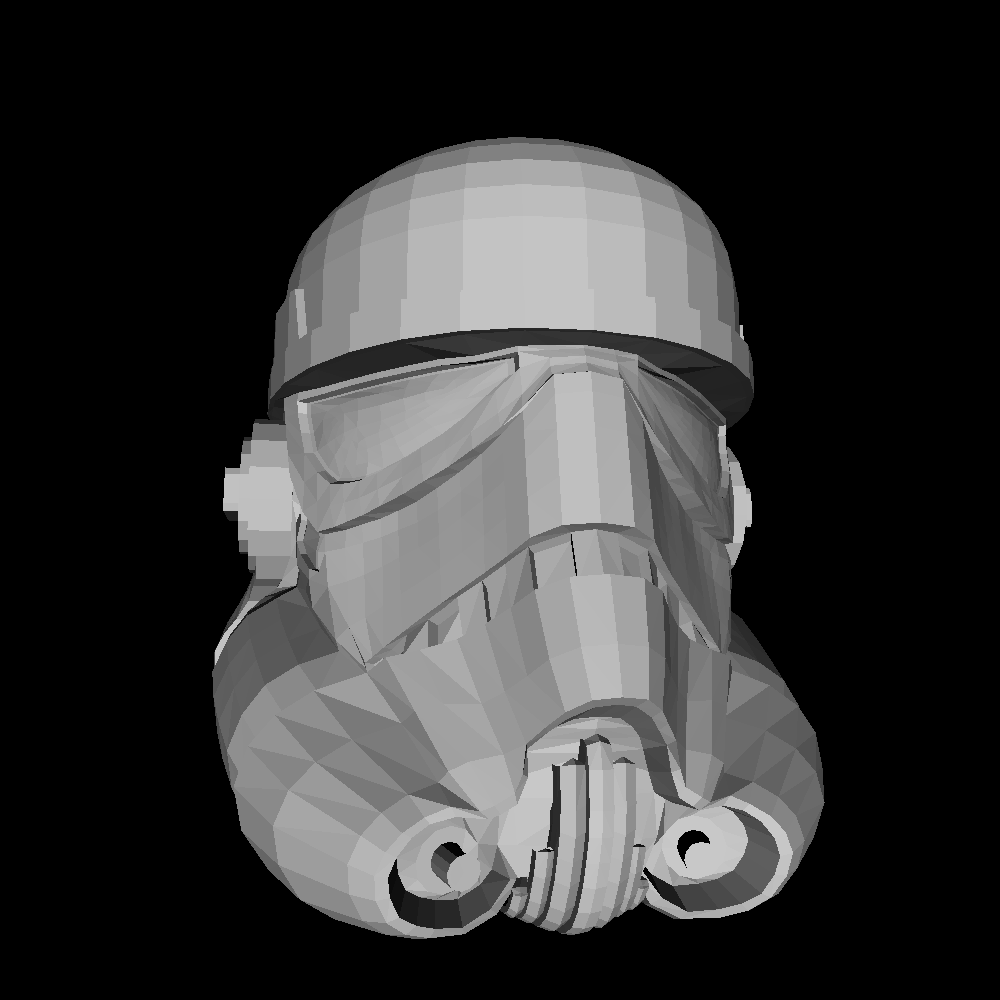
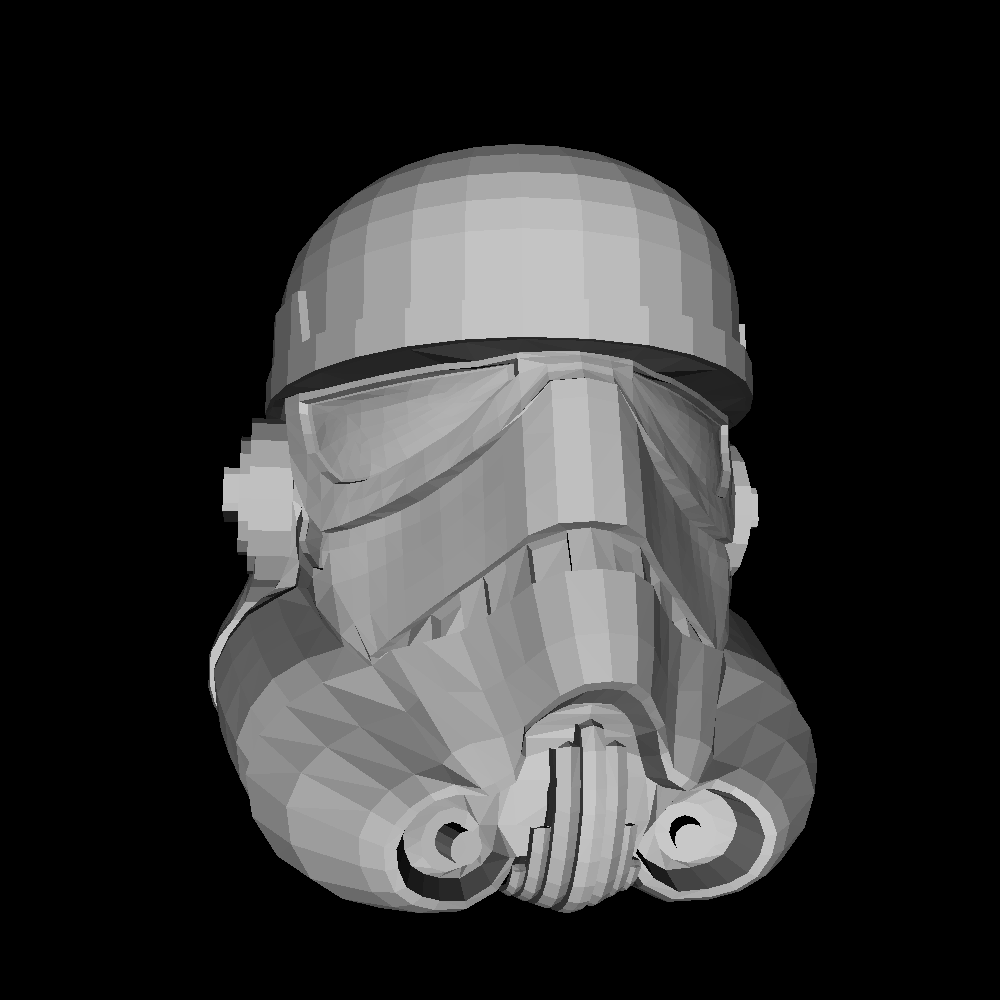
что-то исправил, что-то поломал

diff --git a/src/com/company/Main.java b/src/com/company/Main.java
@@ -107,9 +107,22 @@ public class Main {
 
             // с поворотом
             SimpleObjUtils.RotateSimpleObj(stormTrooper,-0.05*Math.PI,0.93*Math.PI,0);
-            Picture picture1 = SimpleObjUtils.SimpleObjToPicture7(stormTrooper,1000,1000,900, 900,500,500, 5);
+            Picture picture1 = SimpleObjUtils.SimpleObjToPicture7(stormTrooper,1000,1000,1100, 1100,500,500, 6);
             PictureUtils.savePicture(picture1, "pictures/lab3/picture1.png");
             */
+
+
+            // получаем объект 3д-модели из файла
+            SimpleObj fox = SimpleObjUtils.SimpleObjFromFile("obj/fox.obj");
+            SimpleObjUtils.RotateSimpleObj(fox,0,0.25*Math.PI,0);
+            Picture picture0 = SimpleObjUtils.SimpleObjToPicture7(fox,1000,1000,600, 600,500,0, 100);
+            PictureUtils.savePicture(picture0, "pictures/fox.png");
+
+            // получаем объект 3д-модели из файла
+            SimpleObj deer = SimpleObjUtils.SimpleObjFromFile("obj/deer.obj");
+            SimpleObjUtils.RotateSimpleObj(deer,0,0.25*Math.PI,0);
+            Picture picture1 = SimpleObjUtils.SimpleObjToPicture7(deer,1000,1000,1000, 1000,500,0, 2000);
+            PictureUtils.savePicture(picture1, "pictures/deer.png");
 
         } catch (Exception e){
             e.printStackTrace();
